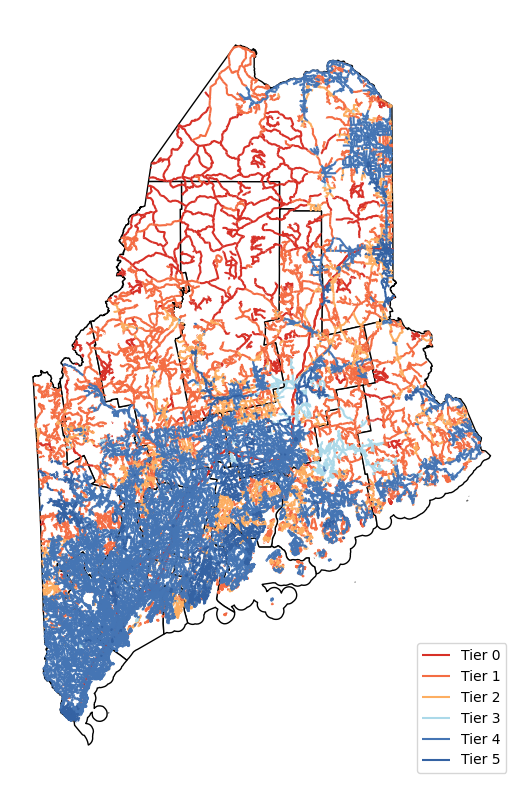
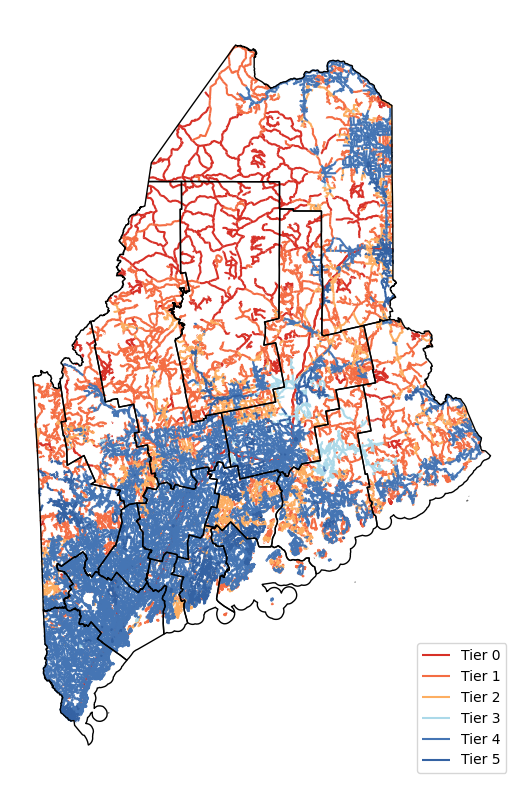
Update code to place county boundaries on top

diff --git a/src/tier_map.py b/src/tier_map.py
@@ -33,12 +33,14 @@ names = {
 
 fig, ax = plt.subplots(figsize=(16,10))
 
-counties.plot(ax = ax, color='white', label="County Border")
+counties.plot(ax = ax, color='none', label="County Border")
 c = ax._children[0]
 c.set_edgecolors("#000000")
+c.set_zorder(2)
 
 for tier, gdf in tiers.items():
-    gdf.plot(ax = ax, label=names[tier], color=colors[tier])
+    gdf.plot(ax = ax, zorder=0, label=names[tier], color=colors[tier])
+
 
 ax.legend(loc="lower right")
 ax.set_axis_off()
